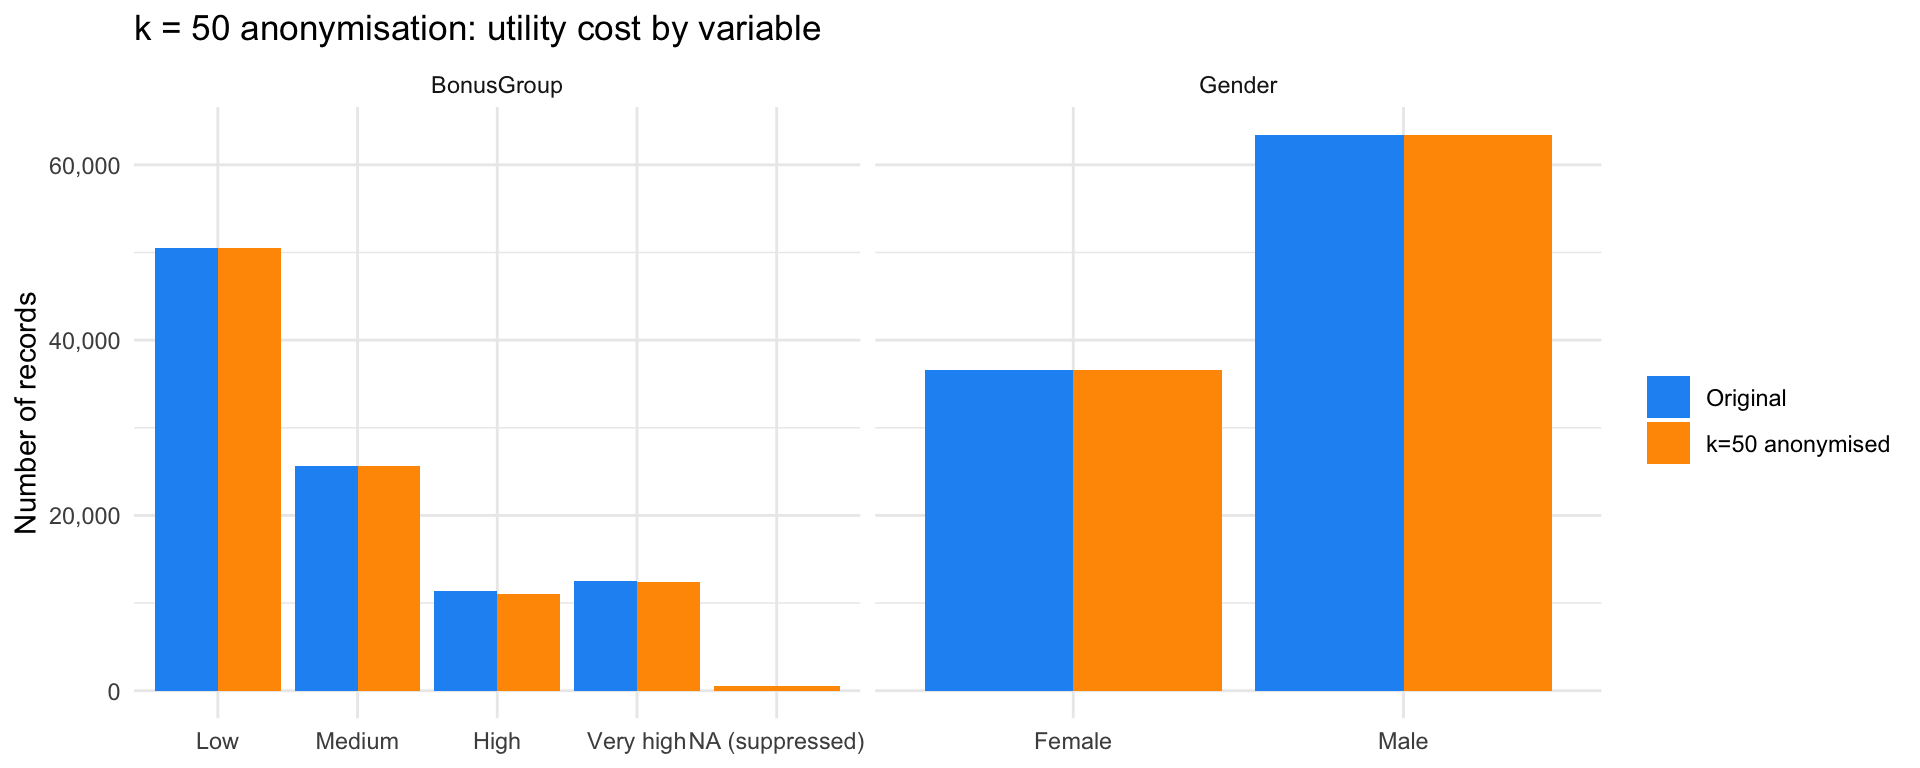
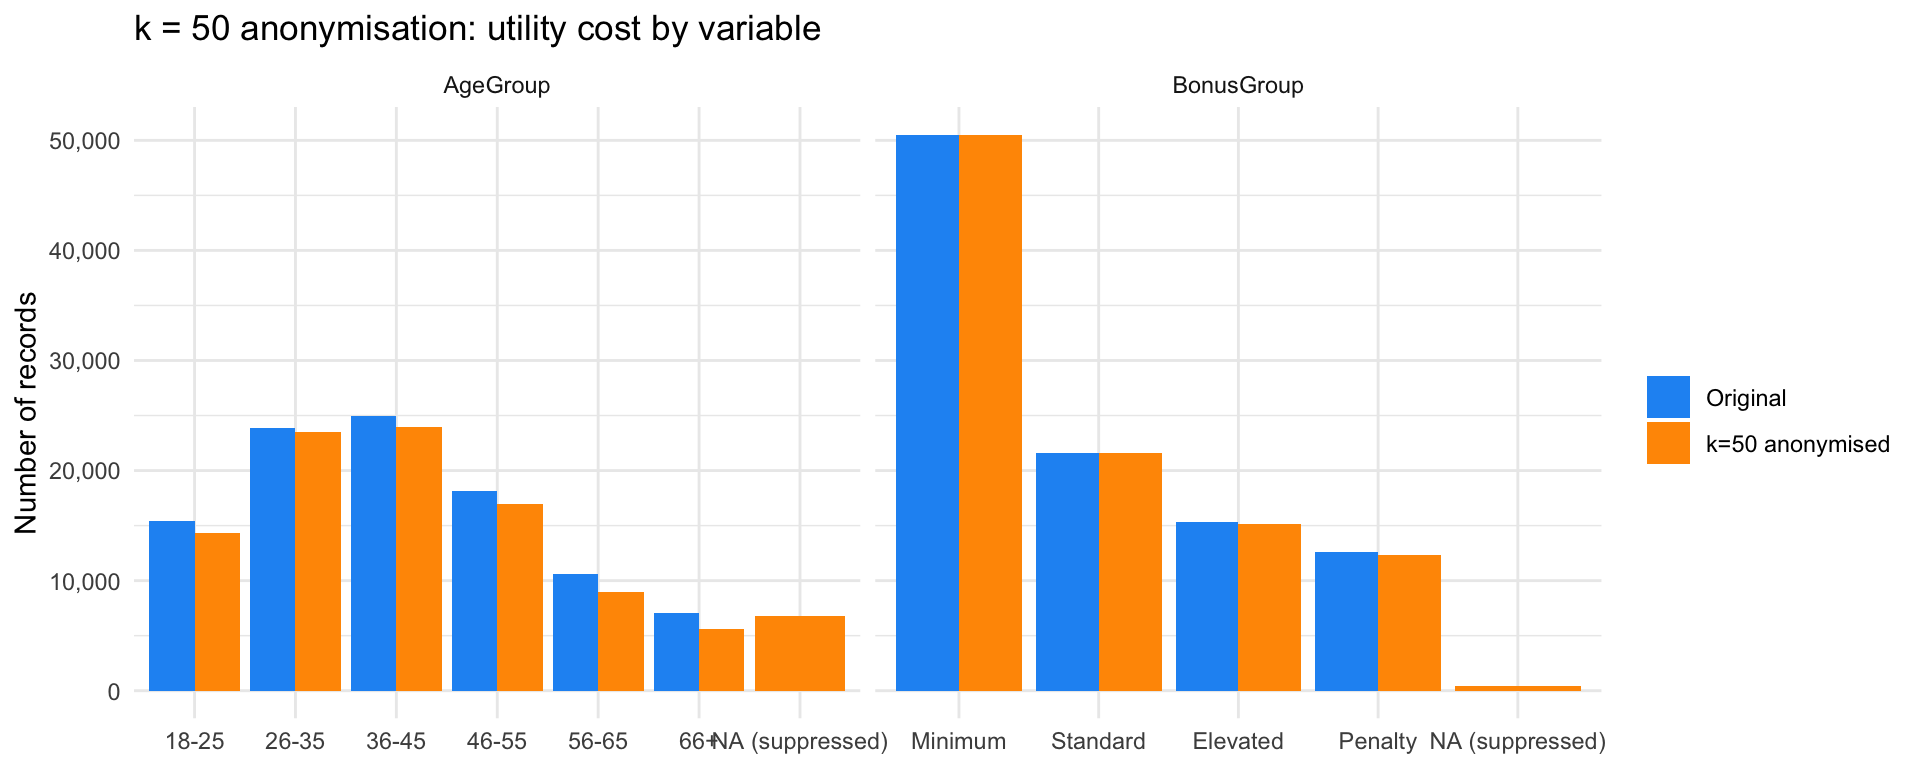
Polish writing: remove em-dashes, split semicolons, fix Ch5 ALE sentences
- Replace unnecessary em-dashes with parentheses, colons, or full stops across Ch1–Ch4, Ch6, Ch8
- Split compound sentences joined by semicolons in Ch2, Ch3, Ch4
- Remove "not about X — it is about Y" construction in Ch1 blockquote
- Ch5: reword ALE sentences (avoid substitution framing; ALE robustness note)
- Re-render all affected HTML files

diff --git a/docs/Lectures/Ch3-Fairness-Practice/Lecture-Fairness-Practice.html b/docs/Lectures/Ch3-Fairness-Practice/Lecture-Fairness-Practice.html
@@ -390,7 +390,7 @@ window.Quarto = {
 </div>
 </div>
 <div class="callout-body-container callout-body">
-<p>A fairness criterion has been chosen and the regulator wants to see the numbers. This chapter works through two case studies — insurance pricing and criminal recidivism — to show what measuring and enforcing a fairness criterion looks like in R, and what the results actually mean.</p>
+<p>A fairness criterion has been chosen and the regulator wants to see the numbers. This chapter works through two case studies (insurance pricing and criminal recidivism) to show what measuring and enforcing a fairness criterion looks like in R, and what the results actually mean.</p>
 </div>
 </div>
 <div class="callout callout-style-default callout-tip callout-titled" title="Practitioner summary">
@@ -407,7 +407,7 @@ window.Quarto = {
 <p><strong>Steps to take.</strong></p>
 <ol type="1">
 <li>Fit the baseline model (M0) and record its accuracy and disparate impact ratio.</li>
-<li>Apply the fair model design that matches the criterion — MU, MDP, MCDP, or MC.</li>
+<li>Apply the fair model design that matches the criterion: MU, MDP, MCDP, or MC.</li>
 <li>Compute the disparate impact ratio and RMSE for each design.</li>
 <li>Examine outcome redistribution: which subgroups gain and which lose relative to the baseline.</li>
 <li>Document the chosen design and the accuracy trade-off.</li>
@@ -445,8 +445,8 @@ window.Quarto = {
 </div>
 </div>
 <div class="callout-body-container callout-body">
-<p>The insurance case study fits all four model designs (MU, MDP, MCDP, MC) on the same dataset and measures the disparity–accuracy trade-off for each. The key finding: accuracy costs across all four designs are modest (around 1–3 percentage points in RMSE), but the redistribution of outcomes across protected groups differs substantially. MDP produces the strongest group fairness but the largest redistribution; MCDP is more targeted, debiasing only the proxy variables that drive the disparity.</p>
-<p>The COMPAS case study extends the same workflow to binary classification. The central result: unawareness (removing the protected attribute from the model) barely moves the disparity ratios. The demographic parity gap stays at roughly 2:1 whether or not ethnicity appears directly as a predictor. Post-processing can close this gap, but only by worsening other fairness metrics — the impossibility result from Chapter 2, observed on real data.</p>
+<p>The insurance case study fits all four model designs (MU, MDP, MCDP, MC) on the same dataset and measures the disparity–accuracy trade-off for each. The key finding: accuracy costs across all four designs are modest (around 1–3 percentage points in RMSE), but the redistribution of outcomes across protected groups differs substantially. MDP produces the strongest group fairness but the largest redistribution. MCDP is more targeted, debiasing only the proxy variables that drive the disparity.</p>
+<p>The COMPAS case study extends the same workflow to binary classification. The central result: unawareness (removing the protected attribute from the model) barely moves the disparity ratios. The demographic parity gap stays at roughly 2:1 whether or not ethnicity appears directly as a predictor. Post-processing can close this gap, but only by worsening other fairness metrics (the impossibility result from Chapter 2, observed on real data).</p>
 </div>
 </div>
 </section>
@@ -1489,7 +1489,7 @@ Important
 <section id="achieving-a-criterion-post-processing-with-roc_pivot" class="level3">
 <h3 class="anchored" data-anchor-id="achieving-a-criterion-post-processing-with-roc_pivot">Achieving a criterion: post-processing with <code>roc_pivot()</code></h3>
 <p>The <code>fairness</code> package only <em>measures</em> disparity. It has no correction method. <code>fairmodels</code> (already used above for the insurance disparate-impact remover) also provides <strong>post-processing</strong>. <code>roc_pivot()</code> implements a reject-option correction <span class="citation" data-cites="kamiran2012decision">(<a href="#ref-kamiran2012decision" role="doc-biblioref">Kamiran et al. 2012</a>)</span>, which relabels predictions that fall within a band of width <code>theta</code> around the decision cutoff, giving the disadvantaged group’s borderline cases the benefit of the doubt and pulling the advantaged group’s borderline cases the other way.</p>
-<p>Mechanically, this is a mirror reflection across the cutoff: a borderline probability <span class="math inline">p</span> becomes <span class="math inline">2 \times \text{cutoff} - p</span>. A privileged individual whose prediction was just barely favourable gets flipped to unfavourable; a disadvantaged individual whose prediction was just barely unfavourable gets flipped to favourable. Predictions outside the band, where the model is confident, are left untouched.</p>
+<p>Mechanically, this is a mirror reflection across the cutoff: a borderline probability <span class="math inline">p</span> becomes <span class="math inline">2 \times \text{cutoff} - p</span>. A privileged individual whose prediction was just barely favourable gets flipped to unfavourable. A disadvantaged individual whose prediction was just barely unfavourable gets flipped to favourable. Predictions outside the band, where the model is confident, are left untouched.</p>
 <p><code>roc_pivot()</code> assumes a probability above the cutoff represents the <em>favourable</em> outcome, and that <code>privileged</code> names the <em>privileged</em> group. In our model, a probability above 0.5 means predicted recidivism, the unfavourable outcome, so we convert the model to predict <strong>non-recidivism</strong> as the favourable outcome before calling <code>roc_pivot()</code>, keeping Caucasian (the group favoured by the status quo model) as the privileged group. This keeps the function’s parameters meaning what their names say, rather than relying on two compensating reversals to get the right direction.</p>
 <div class="cell">
 <details class="code-fold">
@@ -1592,7 +1592,7 @@ Important
 </div>
 </div>
 <div class="callout-body-container callout-body">
-<p><strong>Predictive rate parity gets monotonically <em>worse</em> as the correction gets stronger</strong>, moving from 1.15 (barely violated) to 1.73 (badly violated) as <code>theta</code> increases from 0 to 0.20. Pushing demographic parity and the TPR gap toward 1 does not leave the precision gap alone — it actively widens it. Past <code>theta ≈ 0.10</code>, demographic parity and the TPR gap <strong>overshoot below 1</strong>, meaning the correction has now reversed the disparity rather than closed it, at a steep accuracy cost (66.5% → 56.8%, not much better than a coin flip).</p>
+<p><strong>Predictive rate parity gets monotonically <em>worse</em> as the correction gets stronger</strong>, moving from 1.15 (barely violated) to 1.73 (badly violated) as <code>theta</code> increases from 0 to 0.20. Pushing demographic parity and the TPR gap toward 1 does not leave the precision gap alone. It actively widens it. Past <code>theta ≈ 0.10</code>, demographic parity and the TPR gap <strong>overshoot below 1</strong>, meaning the correction has now reversed the disparity rather than closed it, at a steep accuracy cost (66.5% → 56.8%, not much better than a coin flip).</p>
 <p>This is the Chapter 2 impossibility result, demonstrated as a dial rather than a single before/after snapshot. There is no <code>theta</code> that satisfies all three checks at once, because none exists while the two groups’ base recidivism rates differ. Post-processing lets you choose <em>where on this curve</em> to sit. It does not let you escape the curve.</p>
 </div>
 </div>
@@ -2205,7 +2205,7 @@ Xin, Xi, and Fei Huang. 2024. <span>“Antidiscrimination Insurance Pricing: Reg
 <span id="cb16-41"><a href="#cb16-41" aria-hidden="true" tabindex="-1"></a><span class="ss">- </span>Apply a post-processing correction (<span class="in">`roc_pivot`</span>) to a classifier, and observe the trade-offs it creates across criteria.</span>
 <span id="cb16-42"><a href="#cb16-42" aria-hidden="true" tabindex="-1"></a></span>
 <span id="cb16-43"><a href="#cb16-43" aria-hidden="true" tabindex="-1"></a>::: {.callout-note title="Why this matters at work"}</span>
-<span id="cb16-44"><a href="#cb16-44" aria-hidden="true" tabindex="-1"></a>A fairness criterion has been chosen and the regulator wants to see the numbers. This chapter works through two case studies — insurance pricing and criminal recidivism — to show what measuring and enforcing a fairness criterion looks like in R, and what the results actually mean.</span>
+<span id="cb16-44"><a href="#cb16-44" aria-hidden="true" tabindex="-1"></a>A fairness criterion has been chosen and the regulator wants to see the numbers. This chapter works through two case studies (insurance pricing and criminal recidivism) to show what measuring and enforcing a fairness criterion looks like in R, and what the results actually mean.</span>
 <span id="cb16-45"><a href="#cb16-45" aria-hidden="true" tabindex="-1"></a>:::</span>
 <span id="cb16-46"><a href="#cb16-46" aria-hidden="true" tabindex="-1"></a></span>
 <span id="cb16-47"><a href="#cb16-47" aria-hidden="true" tabindex="-1"></a>::: {.callout-tip title="Practitioner summary"}</span>
@@ -2214,7 +2214,7 @@ Xin, Xi, and Fei Huang. 2024. <span>“Antidiscrimination Insurance Pricing: Reg
 <span id="cb16-50"><a href="#cb16-50" aria-hidden="true" tabindex="-1"></a>**Steps to take.**</span>
 <span id="cb16-51"><a href="#cb16-51" aria-hidden="true" tabindex="-1"></a></span>
 <span id="cb16-52"><a href="#cb16-52" aria-hidden="true" tabindex="-1"></a><span class="ss">1. </span>Fit the baseline model (M0) and record its accuracy and disparate impact ratio.</span>
-<span id="cb16-53"><a href="#cb16-53" aria-hidden="true" tabindex="-1"></a><span class="ss">2. </span>Apply the fair model design that matches the criterion — MU, MDP, MCDP, or MC.</span>
+<span id="cb16-53"><a href="#cb16-53" aria-hidden="true" tabindex="-1"></a><span class="ss">2. </span>Apply the fair model design that matches the criterion: MU, MDP, MCDP, or MC.</span>
 <span id="cb16-54"><a href="#cb16-54" aria-hidden="true" tabindex="-1"></a><span class="ss">3. </span>Compute the disparate impact ratio and RMSE for each design.</span>
 <span id="cb16-55"><a href="#cb16-55" aria-hidden="true" tabindex="-1"></a><span class="ss">4. </span>Examine outcome redistribution: which subgroups gain and which lose relative to the baseline.</span>
 <span id="cb16-56"><a href="#cb16-56" aria-hidden="true" tabindex="-1"></a><span class="ss">5. </span>Document the chosen design and the accuracy trade-off.</span>
@@ -2240,9 +2240,9 @@ Xin, Xi, and Fei Huang. 2024. <span>“Antidiscrimination Insurance Pricing: Reg
 <span id="cb16-76"><a href="#cb16-76" aria-hidden="true" tabindex="-1"></a>This lecture works through steps 3–5 in full, on a single worked case study, so each step above has a concrete implementation to point to.</span>
 <span id="cb16-77"><a href="#cb16-77" aria-hidden="true" tabindex="-1"></a></span>
 <span id="cb16-78"><a href="#cb16-78" aria-hidden="true" tabindex="-1"></a>::: {.callout-note title="What this analysis shows"}</span>
-<span id="cb16-79"><a href="#cb16-79" aria-hidden="true" tabindex="-1"></a>The insurance case study fits all four model designs (MU, MDP, MCDP, MC) on the same dataset and measures the disparity–accuracy trade-off for each. The key finding: accuracy costs across all four designs are modest (around 1–3 percentage points in RMSE), but the redistribution of outcomes across protected groups differs substantially. MDP produces the strongest group fairness but the largest redistribution; MCDP is more targeted, debiasing only the proxy variables that drive the disparity.</span>
+<span id="cb16-79"><a href="#cb16-79" aria-hidden="true" tabindex="-1"></a>The insurance case study fits all four model designs (MU, MDP, MCDP, MC) on the same dataset and measures the disparity–accuracy trade-off for each. The key finding: accuracy costs across all four designs are modest (around 1–3 percentage points in RMSE), but the redistribution of outcomes across protected groups differs substantially. MDP produces the strongest group fairness but the largest redistribution. MCDP is more targeted, debiasing only the proxy variables that drive the disparity.</span>
 <span id="cb16-80"><a href="#cb16-80" aria-hidden="true" tabindex="-1"></a></span>
-<span id="cb16-81"><a href="#cb16-81" aria-hidden="true" tabindex="-1"></a>The COMPAS case study extends the same workflow to binary classification. The central result: unawareness (removing the protected attribute from the model) barely moves the disparity ratios. The demographic parity gap stays at roughly 2:1 whether or not ethnicity appears directly as a predictor. Post-processing can close this gap, but only by worsening other fairness metrics — the impossibility result from Chapter 2, observed on real data.</span>
+<span id="cb16-81"><a href="#cb16-81" aria-hidden="true" tabindex="-1"></a>The COMPAS case study extends the same workflow to binary classification. The central result: unawareness (removing the protected attribute from the model) barely moves the disparity ratios. The demographic parity gap stays at roughly 2:1 whether or not ethnicity appears directly as a predictor. Post-processing can close this gap, but only by worsening other fairness metrics (the impossibility result from Chapter 2, observed on real data).</span>
 <span id="cb16-82"><a href="#cb16-82" aria-hidden="true" tabindex="-1"></a>:::</span>
 <span id="cb16-83"><a href="#cb16-83" aria-hidden="true" tabindex="-1"></a></span>
 <span id="cb16-84"><a href="#cb16-84" aria-hidden="true" tabindex="-1"></a><span class="fu">## Case study: fair pricing for motor insurance</span></span>
@@ -3123,7 +3123,7 @@ Xin, Xi, and Fei Huang. 2024. <span>“Antidiscrimination Insurance Pricing: Reg
 <span id="cb16-985"><a href="#cb16-985" aria-hidden="true" tabindex="-1"></a></span>
 <span id="cb16-986"><a href="#cb16-986" aria-hidden="true" tabindex="-1"></a>The <span class="in">`fairness`</span> package only *measures* disparity. It has no correction method. `fairmodels` (already used above for the insurance disparate-impact remover) also provides **post-processing**. <span class="in">`roc_pivot()`</span> implements a reject-option correction <span class="co">[</span><span class="ot">@kamiran2012decision</span><span class="co">]</span>, which relabels predictions that fall within a band of width <span class="in">`theta`</span> around the decision cutoff, giving the disadvantaged group's borderline cases the benefit of the doubt and pulling the advantaged group's borderline cases the other way.</span>
 <span id="cb16-987"><a href="#cb16-987" aria-hidden="true" tabindex="-1"></a></span>
-<span id="cb16-988"><a href="#cb16-988" aria-hidden="true" tabindex="-1"></a>Mechanically, this is a mirror reflection across the cutoff: a borderline probability $p$ becomes $2 \times \text{cutoff} - p$. A privileged individual whose prediction was just barely favourable gets flipped to unfavourable; a disadvantaged individual whose prediction was just barely unfavourable gets flipped to favourable. Predictions outside the band, where the model is confident, are left untouched.</span>
+<span id="cb16-988"><a href="#cb16-988" aria-hidden="true" tabindex="-1"></a>Mechanically, this is a mirror reflection across the cutoff: a borderline probability $p$ becomes $2 \times \text{cutoff} - p$. A privileged individual whose prediction was just barely favourable gets flipped to unfavourable. A disadvantaged individual whose prediction was just barely unfavourable gets flipped to favourable. Predictions outside the band, where the model is confident, are left untouched.</span>
 <span id="cb16-989"><a href="#cb16-989" aria-hidden="true" tabindex="-1"></a></span>
 <span id="cb16-990"><a href="#cb16-990" aria-hidden="true" tabindex="-1"></a><span class="in">`roc_pivot()`</span> assumes a probability above the cutoff represents the *favourable* outcome, and that `privileged` names the *privileged* group. In our model, a probability above 0.5 means predicted recidivism, the unfavourable outcome, so we convert the model to predict **non-recidivism** as the favourable outcome before calling <span class="in">`roc_pivot()`</span>, keeping Caucasian (the group favoured by the status quo model) as the privileged group. This keeps the function's parameters meaning what their names say, rather than relying on two compensating reversals to get the right direction.</span>
 <span id="cb16-991"><a href="#cb16-991" aria-hidden="true" tabindex="-1"></a></span>
@@ -3173,7 +3173,7 @@ Xin, Xi, and Fei Huang. 2024. <span>“Antidiscrimination Insurance Pricing: Reg
 <span id="cb16-1037"><a href="#cb16-1037" aria-hidden="true" tabindex="-1"></a>At <span class="in">`theta = 0.05`</span>, a modest accuracy cost (66.5% → 65.7%) buys a large improvement in demographic parity (1.94 → 1.13) and brings the TPR gap almost exactly to parity (1.67 → 1.11). That looks like a free lunch, until the predictive-rate-parity column is read alongside it.</span>
 <span id="cb16-1038"><a href="#cb16-1038" aria-hidden="true" tabindex="-1"></a></span>
 <span id="cb16-1039"><a href="#cb16-1039" aria-hidden="true" tabindex="-1"></a>::: {.callout-important}</span>
-<span id="cb16-1040"><a href="#cb16-1040" aria-hidden="true" tabindex="-1"></a>**Predictive rate parity gets monotonically *worse* as the correction gets stronger**, moving from 1.15 (barely violated) to 1.73 (badly violated) as `theta` increases from 0 to 0.20. Pushing demographic parity and the TPR gap toward 1 does not leave the precision gap alone — it actively widens it. Past `theta ≈ 0.10`, demographic parity and the TPR gap **overshoot below 1**, meaning the correction has now reversed the disparity rather than closed it, at a steep accuracy cost (66.5% → 56.8%, not much better than a coin flip).</span>
+<span id="cb16-1040"><a href="#cb16-1040" aria-hidden="true" tabindex="-1"></a>**Predictive rate parity gets monotonically *worse* as the correction gets stronger**, moving from 1.15 (barely violated) to 1.73 (badly violated) as `theta` increases from 0 to 0.20. Pushing demographic parity and the TPR gap toward 1 does not leave the precision gap alone. It actively widens it. Past `theta ≈ 0.10`, demographic parity and the TPR gap **overshoot below 1**, meaning the correction has now reversed the disparity rather than closed it, at a steep accuracy cost (66.5% → 56.8%, not much better than a coin flip).</span>
 <span id="cb16-1041"><a href="#cb16-1041" aria-hidden="true" tabindex="-1"></a></span>
 <span id="cb16-1042"><a href="#cb16-1042" aria-hidden="true" tabindex="-1"></a>This is the Chapter 2 impossibility result, demonstrated as a dial rather than a single before/after snapshot. There is no <span class="in">`theta`</span> that satisfies all three checks at once, because none exists while the two groups' base recidivism rates differ. Post-processing lets you choose *where on this curve* to sit. It does not let you escape the curve.</span>
 <span id="cb16-1043"><a href="#cb16-1043" aria-hidden="true" tabindex="-1"></a>:::</span>
